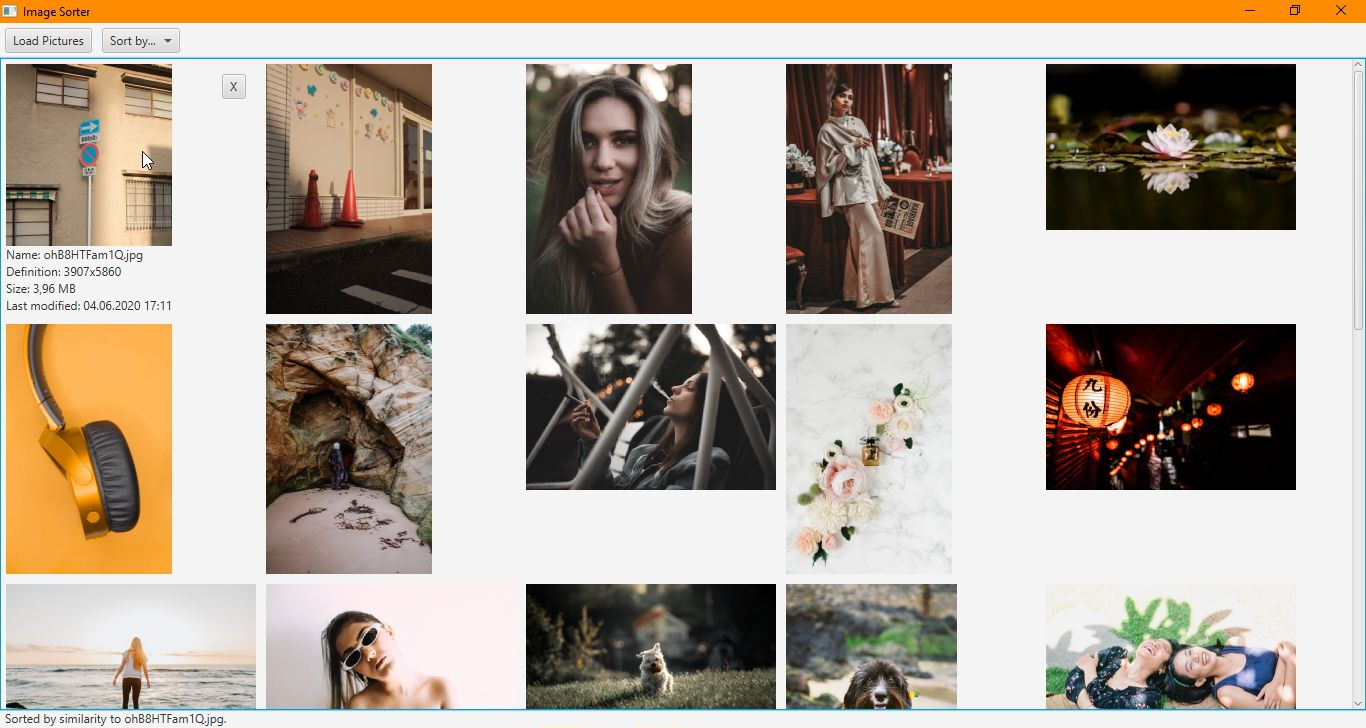
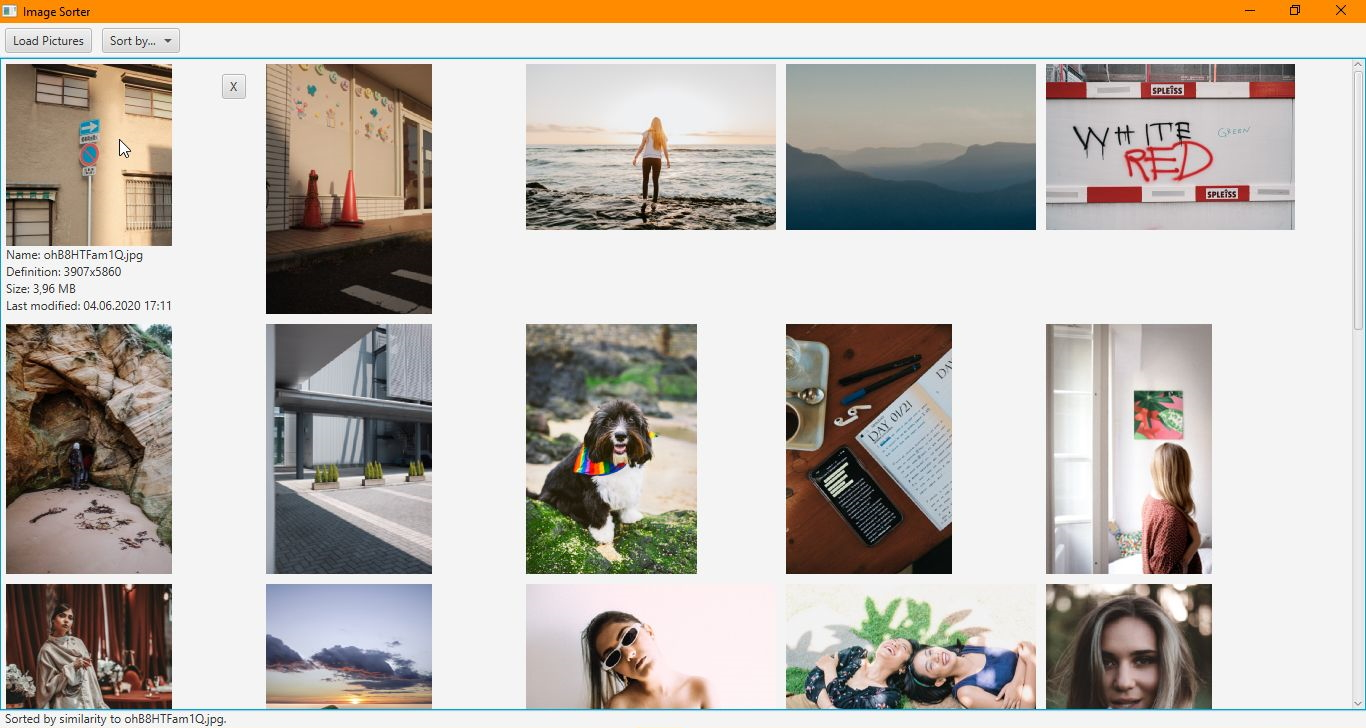
Changed color distance function (once again)
Distance is now calculated according to HSB conical representation.

diff --git a/MainController.java b/MainController.java
@@ -157,15 +157,18 @@ public class MainController {
             for (int y = 0; y < height; y++) {
                 Color color1 = pixelReader1.getColor(x, y);
                 Color color2 = pixelReader2.getColor(x, y);
-                value += Math.abs(HsbArbitraryValue(color1) - HsbArbitraryValue(color2));
+                value += HsbArbitraryDistance(color1, color2);
             }
         }
         return value;
     }
 
-    private double HsbArbitraryValue(Color color) {
-        return (Math.cos(Math.toRadians(color.getHue())) + Math.sin(Math.toRadians(color.getHue()))) *
-                180 + color.getBrightness() + color.getSaturation();
+    private double HsbArbitraryDistance(Color color1, Color color2) {
+        double r1 = color1.getSaturation() * color1.getBrightness();
+        double r2 = color2.getSaturation() * color2.getBrightness();
+        return Math.pow(r1, 2) + Math.pow(r2, 2)
+                - 2 * r1 * r2 * Math.cos(Math.toRadians(color1.getHue()) - Math.toRadians(color2.getHue()))
+                + Math.pow(color1.getBrightness() - color2.getBrightness(), 2);
     }
 
     private void sort(Comparator<CustomImageView> comparator) {
